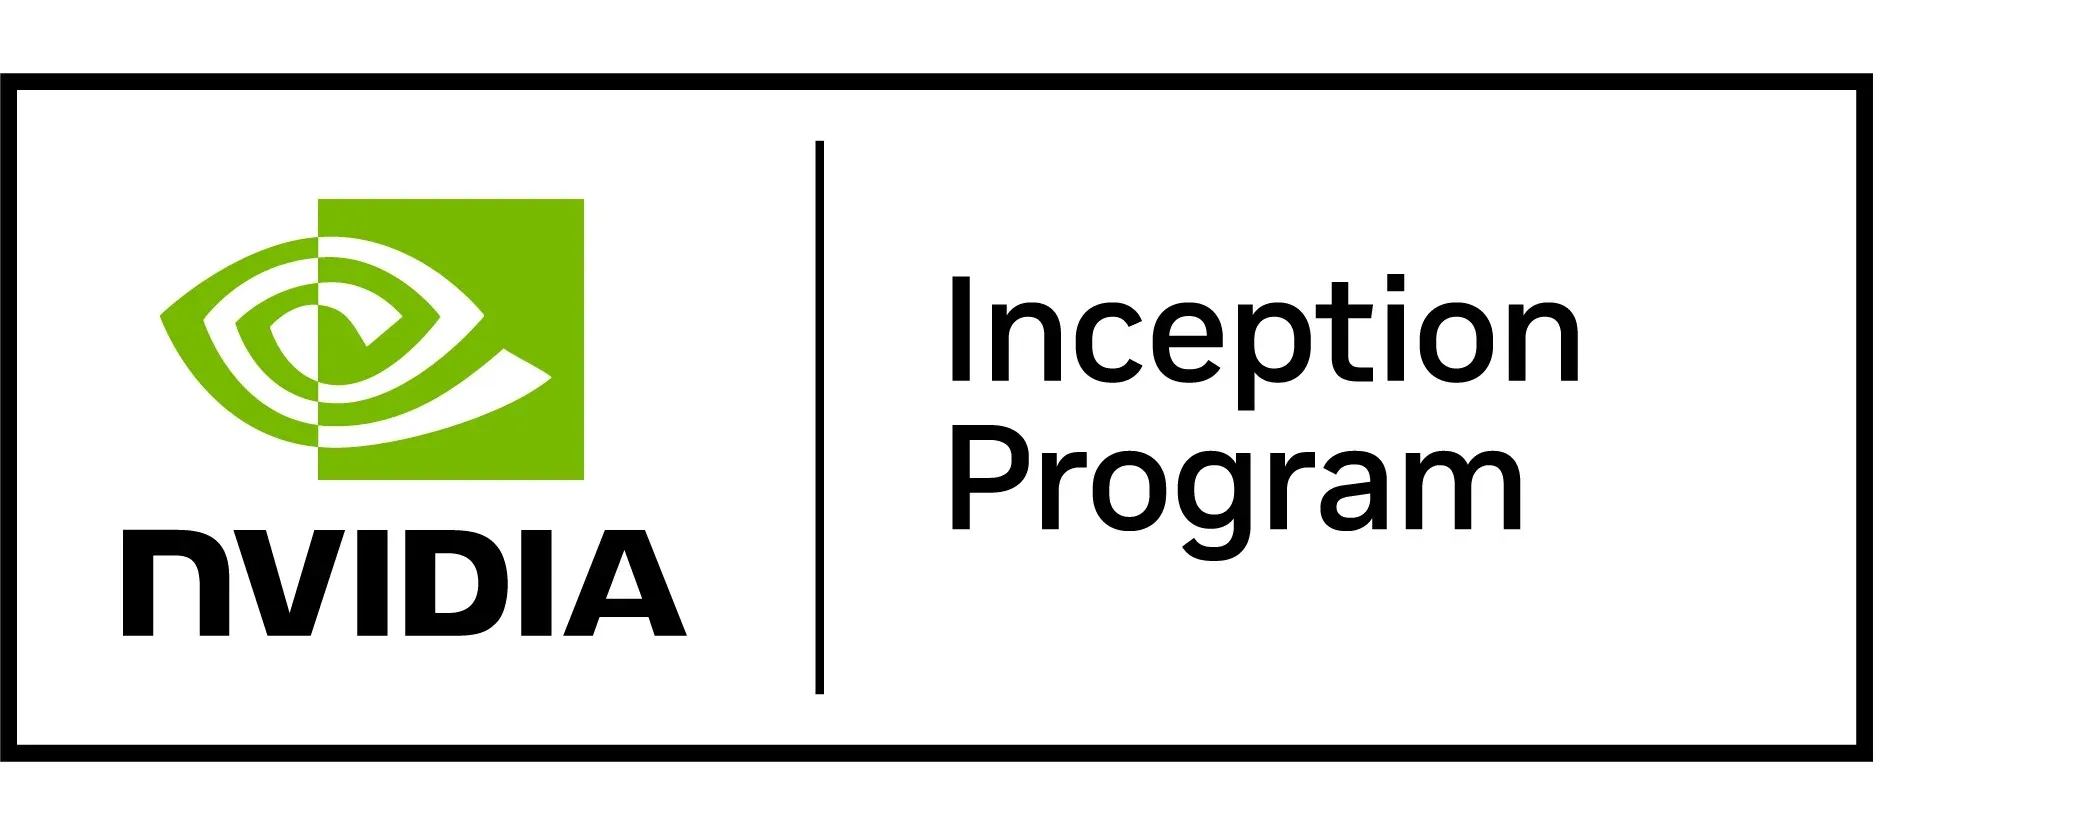
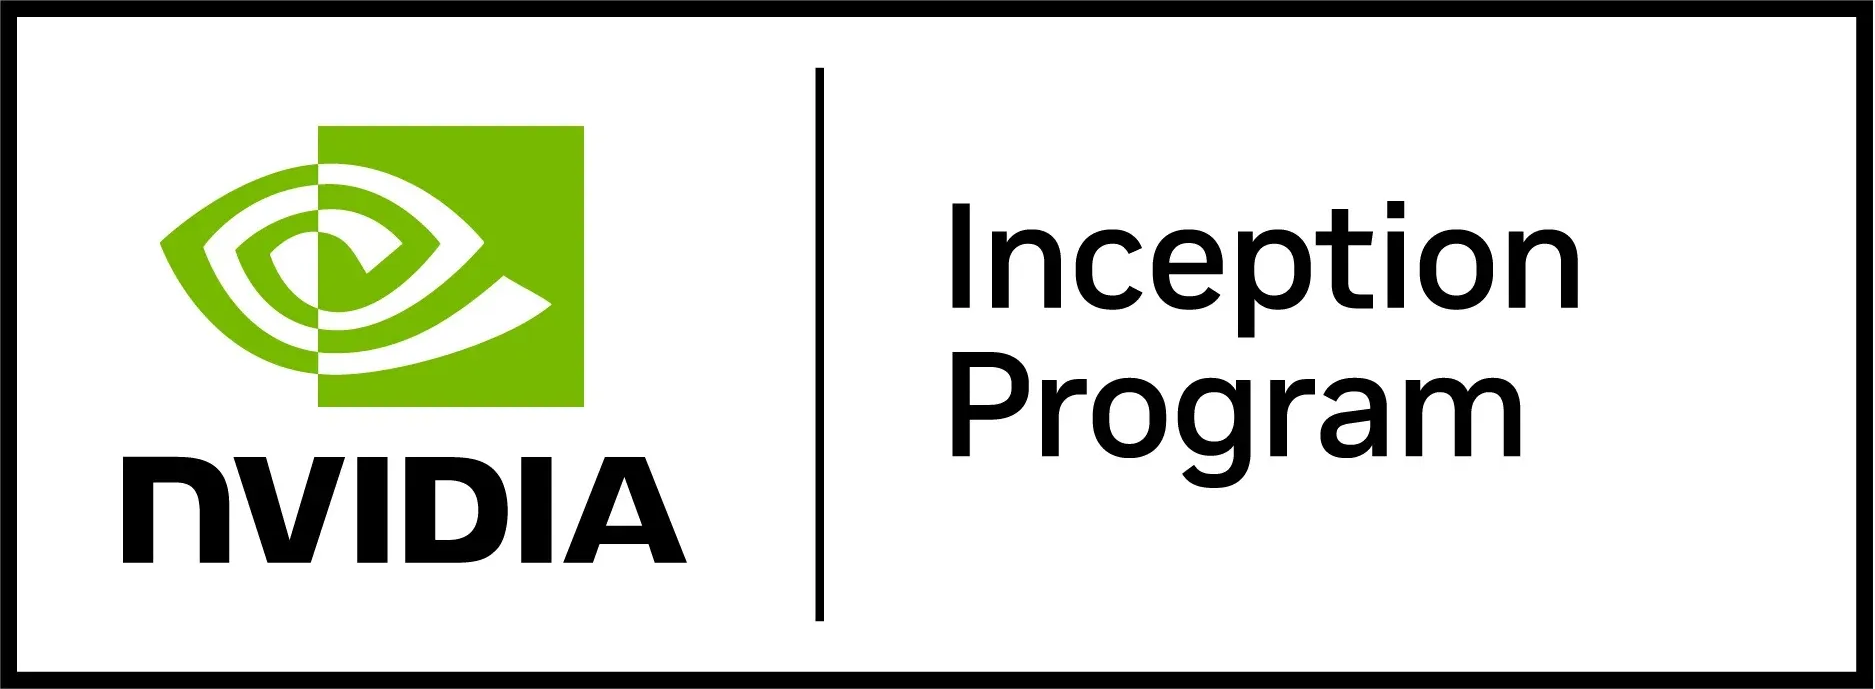
Crop excess canvas from NVIDIA display badge (#16)

Changed region(s): [[0.0, 0.0, 1.0, 1.0], [0.0309, 0.1829, 0.4021, 0.8229]]

diff --git a/src/pages/HomePage.tsx b/src/pages/HomePage.tsx
@@ -44,8 +44,8 @@ export default function HomePage() {
           <img
             src="/images/partners/nvidia-inception-program-member.png"
             alt="NVIDIA Inception Program member badge"
-            width="2084"
-            height="835"
+            width="1875"
+            height="689"
             loading="lazy"
           />
         </div>
